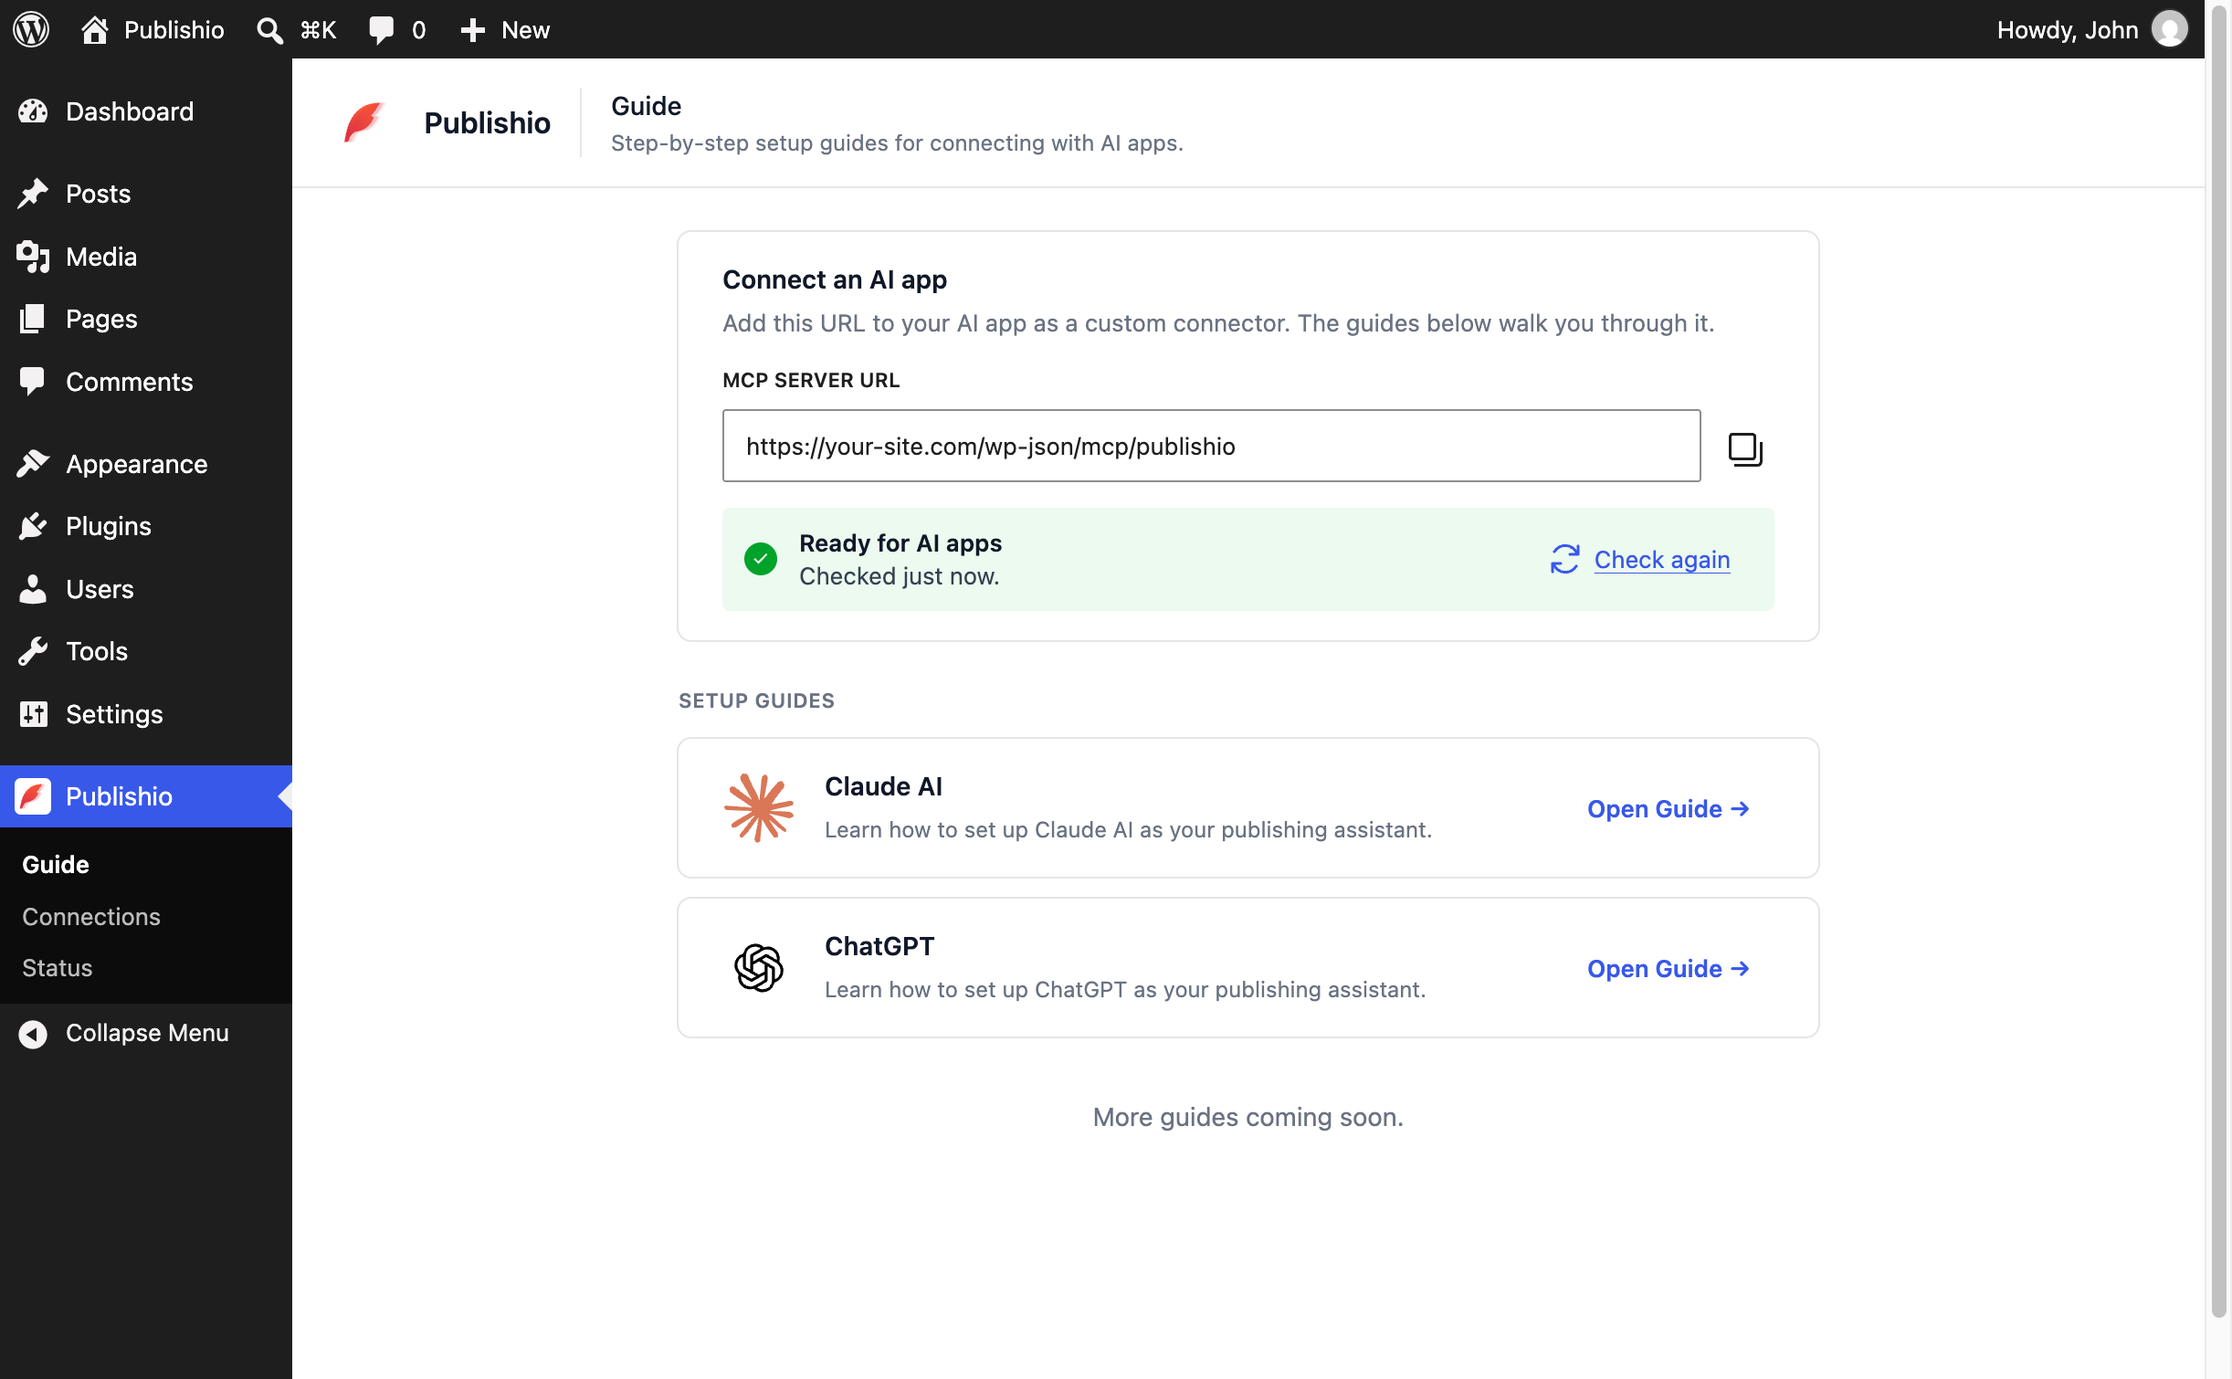
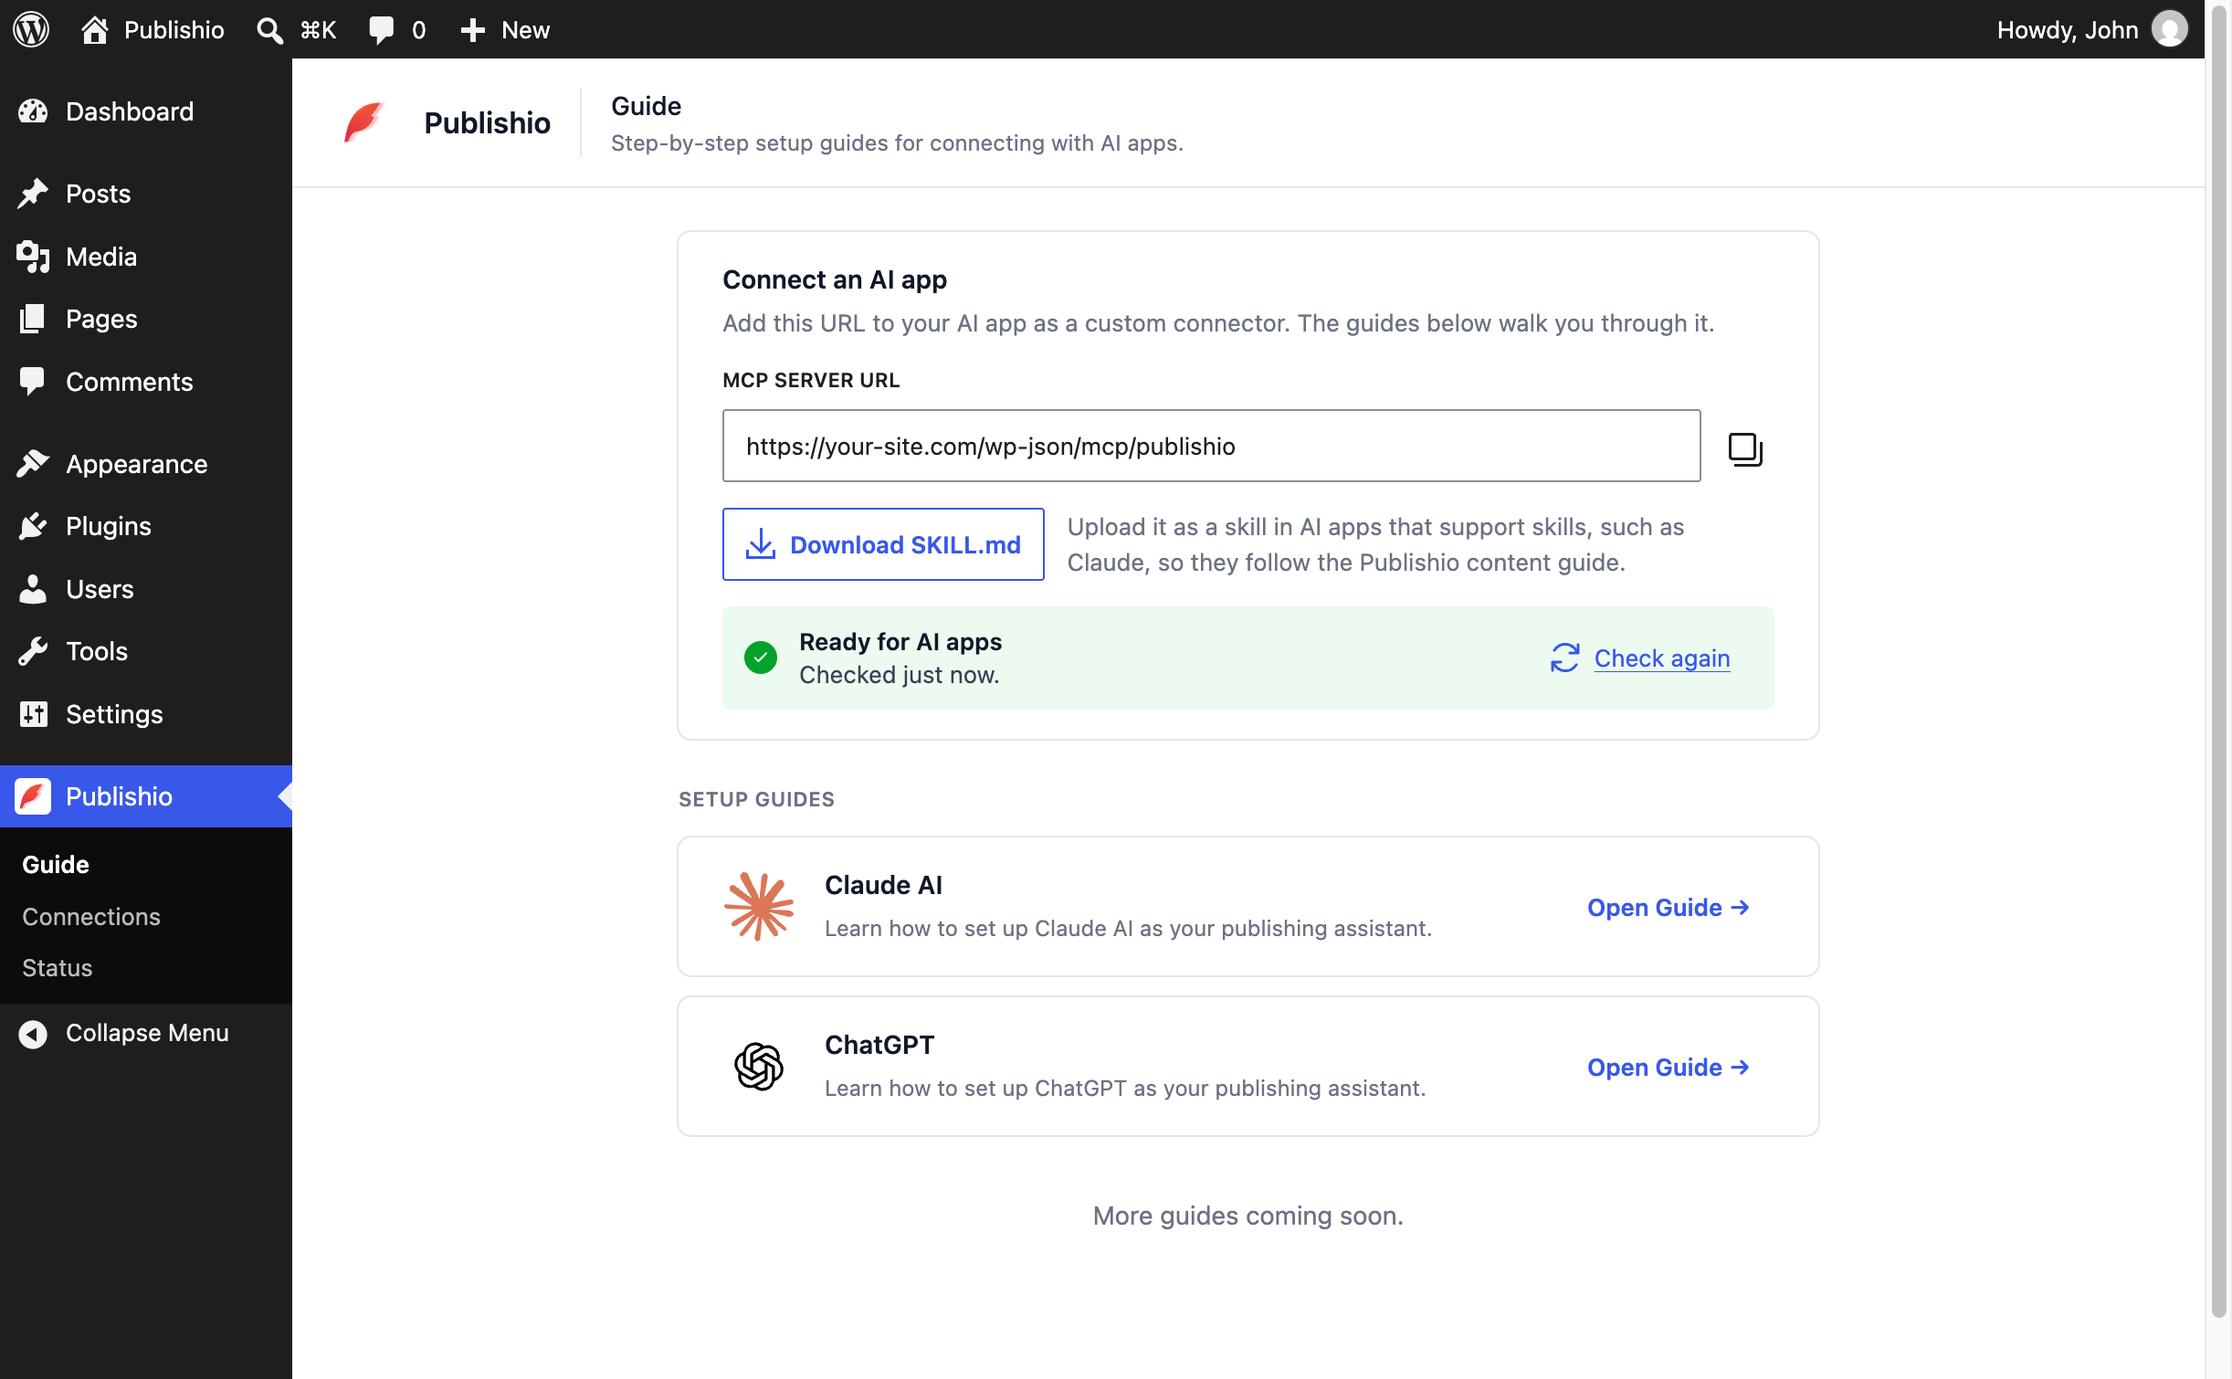
release(1.3.0): update version, changelog, screenshots and docs (#164)
* release(1.3.0): bump version, update changelog, screenshots and docs

* docs(readme): clarify what the block checks cover in the 1.3.0 changelog

diff --git a/publishio.php b/publishio.php
@@ -10,7 +10,7 @@
  * Plugin Name:       Publishio
  * Plugin URI:        https://github.com/rtCamp/publishio
  * Description:       Build WordPress pages and posts using your existing patterns directly from your favorite AI assistant.
- * Version:           1.2.0
+ * Version:           1.3.0
  * Author:            rtCamp
  * Author URI:        https://rtcamp.com
  * License:           GPL-2.0-or-later
@@ -41,7 +41,7 @@ function constants(): void {
 	/**
 	 * Version of the plugin.
 	 */
-	define( 'PUBLISHIO_VERSION', '1.2.0' );
+	define( 'PUBLISHIO_VERSION', '1.3.0' );
 
 	/**
 	 * Root path to the plugin directory.

diff --git a/docs/DEVELOPMENT.md b/docs/DEVELOPMENT.md
@@ -53,6 +53,7 @@ Code contributions, bug reports, and feature requests are welcome! The following
 ├── assets/      # Static assets that do not need compiling.
 ├── build/       # Compiled admin JS/CSS assets (generated by webpack.config.js).
 ├── build-apps/  # Compiled MCP app assets (generated by webpack.apps.config.js).
+├── bin/         # Scripts for E2E runs, the plugin zip and the version check.
 │
 │   # Project documentation.
 ├── docs/
@@ -64,8 +65,7 @@ Code contributions, bug reports, and feature requests are welcome! The following
 │   # Reusable framework library (shared across plugins).
 │   # In local projects, changes should be kept to a minimum so they can be kept in sync with the scaffold.
 ├── framework/
-│   ├── ...
-│   └── README.md # Documentation for the framework library.
+│   └── ...
 │
 │   # PHP source files (plugin-specific code).
 ├── inc/
@@ -84,9 +84,11 @@ Code contributions, bug reports, and feature requests are welcome! The following
 │
 ├── templates/ # Reusable PHP templates and partials.
 │
+├── skills/publishio/SKILL.md # The content guide: served to AI apps over MCP and downloadable from the Guide page.
+│
 │   # Scripts and styles that are compiled by webpack.
 ├── src/
-│   ├── admin/          # Admin UI (guide, connections, credentials).
+│   ├── admin/          # Admin UI (guide, connections, status).
 │   ├── apps/           # Standalone MCP app pages.
 │   ├── global.d.ts     # TypeScript global type declarations.
 │   └── tailwind.scss   # Global tailwind styles.
@@ -120,7 +122,6 @@ Code contributions, bug reports, and feature requests are welcome! The following
 │
 │   # Config files.
 ├── .browserslistrc               # Browserslist configuration.
-├── .distignore                   # Files to exclude from installation via Composer.
 ├── .editorconfig                 # Editor configuration.
 ├── .gitignore                    # Git ignore rules.
 ├── .gitattributes                # Git attributes.
@@ -133,6 +134,7 @@ Code contributions, bug reports, and feature requests are welcome! The following
 ├── .stylelint.config.js          # Stylelint configuration.
 ├── .stylelintignore              # Stylelint ignore patterns.
 ├── .wp-env.json                  # wp-env configuration.
+├── .wp-env.*.json                # wp-env sites for the PHP and E2E tests.
 ├── blueprint.json                # WordPress Playground blueprint configuration.
 ├── babel.config.js               # Babel configuration.
 ├── composer.json                 # PHP dependencies.
@@ -140,12 +142,13 @@ Code contributions, bug reports, and feature requests are welcome! The following
 ├── jest.config.js                # Jest configuration.
 ├── LICENSE.md                    # License file.
 ├── package.json                  # Node.js dependencies.
-├── playwright.config.ts          # Playwright configuration.
+├── playwright.config.js          # Playwright configuration.
 ├── phpstan.neon.dist             # PHPStan configuration.
 ├── phpunit.xml.dist              # PHPUnit configuration.
 ├── phpunit-yoast.xml.dist        # PHPUnit configuration for the tests that need Yoast SEO.
 ├── tsconfig.base.json            # TypeScript base configuration.
 ├── tsconfig.json                 # TypeScript configuration.
+├── webpack.apps.config.js        # Webpack configuration for the MCP apps.
 └── webpack.config.js             # Webpack configuration.
 ```
 
@@ -364,19 +367,15 @@ Pull requests automatically generate a Playground preview from the build artifac
 
 ### PHPUnit
 
-PHPUnit tests can be run using the following command:
+Start the test site with Xdebug's coverage mode, then run the tests:
 
 ```bash
+npm run wp-env:test -- start --xdebug=develop,coverage
+
 npm run test:php
 ```
 
-To generate a code coverage report, make sure to start the testing environment with coverage mode enabled:
-
-```bash
-npm run wp-env:test -- start -- --xdebug-mode=coverage
-
-npm run test:php
-```
+Without coverage mode, PHPUnit warns "No code coverage driver available" and exits 1 even when every test passes. Run one test class with `npm run test:php -- --filter <TestName>`.
 
 You should see the html coverage report in the `tests/_output/html` directory and the clover XML report in `tests/_output/php-coverage.xml`.
 
@@ -422,17 +421,13 @@ The setup file (`tests/js/setup.ts`) provides mocks for common WordPress package
 
 ### Playwright
 
-End-to-end tests using Playwright can be run with the following command:
+End-to-end tests run a group of tests against its own wp-env site, which starts and stops by itself:
 
 ```bash
-npm run test:e2e
+npm run test:e2e -- smoke test
 ```
 
-To run Playwright tests with UI mode enabled (which opens the browser and shows the test execution), use:
-
-```bash
-npm run test:e2e -- --ui
-```
+To watch the browser, add `--headed`. See the [E2E README](../tests/e2e/README.md) for the setup, every test group and how CI runs them.
 
 ### GitHub Workflows
 
@@ -477,9 +472,10 @@ Releases are **tag-driven and manual** — you control versions and the changelo
 
 To ship a version:
 
-1. Bump the version in all places:
+1. Bump the version in all places, then run `npm run version:check`:
    - [`publishio.php`](../publishio.php) — `Version:` header and the `PUBLISHIO_VERSION` constant.
    - [`readme.txt`](../readme.txt) — `Stable tag:`.
+   - [`composer.json`](../composer.json) — `version`. Then run `composer update --lock` to refresh the hash in `composer.lock`.
 2. Update the `== Changelog ==` and `== Upgrade Notice ==` sections in [`readme.txt`](../readme.txt).
 3. Commit and merge to `main`.
 4. Tag and push using a bare `X.Y.Z` version (no `v` prefix), e.g.:
@@ -491,7 +487,7 @@ To ship a version:
 
 Pushing a bare `X.Y.Z` tag runs [`.github/workflows/release.yml`](../.github/workflows/release.yml): it builds the plugin, creates the GitHub Release with the zip attached, and deploys to WordPress.org via SVN. Notes:
 
-- The version comes from the tag name only — keep `publishio.php` and `readme.txt` in sync yourself (step 1).
+- The version comes from the tag name only. CI fails if `publishio.php`, `readme.txt` and `composer.json` disagree (step 1).
 - The tag must point to a commit on `main`, or `validate` fails the release.
 - `v`-prefixed (`v0.3.0`) and pre-release (`0.3.0-beta`) tags do not trigger the workflow.
 - WordPress.org listing assets (banner, icon, screenshots) deploy to SVN `/assets` from [`.wordpress-org`](../.wordpress-org), not the plugin zip.

diff --git a/.github/workflows/README.md b/.github/workflows/README.md
@@ -6,26 +6,27 @@ Workflows are defined to be reusable and modular.
 
 Main CI pipeline used to validate code. Based on file changes it calls the following reusable workflows:
 
-| Reusable Workflow                                                                                                                                                                      | What                                      |
-| -------------------------------------------------------------------------------------------------------------------------------------------------------------------------------------- | ----------------------------------------- |
-| [`reusable-phpcs.yml`](reusable-phpcs.yml) <br /> [`reusable-phpcs-public.yml`](reusable-phpcs-public.yml)                                                                             | PHPCS linting                             |
-| [`reusable-phpstan.yml`](reusable-phpstan.yml) <br /> [`reusable-phpstan-public.yml`](reusable-phpstan-public.yml)                                                                     | PHPStan static analysis                   |
-| [`reusable-phpunit.yml`](reusable-phpunit.yml) <br /> [`reusable-phpunit-public.yml`](reusable-phpunit-public.yml)                                                                     | PHPUnit tests                             |
-| [`reusable-lint-css-js.yml`](reusable-lint-css-js.yml) <br /> [`reusable-lint-css-js-public.yml`](reusable-lint-css-js-public.yml)                                                     | ESLint, Stylelint, Prettier, tsc linting  |
-| [`reusable-jest.yml`](reusable-jest.yml) <br /> [`reusable-jest-public.yml`](reusable-jest-public.yml)                                                                                 | Jest tests                                |
-| [`reusable-e2e.yml`](reusable-e2e.yml) <br /> [`reusable-e2e-public.yml`](reusable-e2e-public.yml)                                                                                     | Playwright end-to-end tests               |
-| [`reusable-build.yml`](reusable-build.yml) <br /> [`reusable-build-public.yml`](reusable-build-public.yml)                                                                             | Creates a build zip (used by playground)  |
-| [`reusable-wp-playground-pr-preview.yml`](reusable-wp-playground-pr-preview.yml) <br /> [`reusable-wp-playground-pr-preview-public.yml`](reusable-wp-playground-pr-preview-public.yml) | PR preview environment with wp-playground |
+| Reusable Workflow                                                                | What                                      |
+| -------------------------------------------------------------------------------- | ----------------------------------------- |
+| [`reusable-phpcs.yml`](reusable-phpcs.yml)                                       | PHPCS linting                             |
+| [`reusable-phpstan.yml`](reusable-phpstan.yml)                                   | PHPStan static analysis                   |
+| [`reusable-phpunit.yml`](reusable-phpunit.yml)                                   | PHPUnit tests                             |
+| [`reusable-lint-css-js.yml`](reusable-lint-css-js.yml)                           | ESLint, Stylelint, Prettier, tsc linting  |
+| [`reusable-jest.yml`](reusable-jest.yml)                                         | Jest tests                                |
+| [`reusable-build.yml`](reusable-build.yml)                                       | Creates a build zip (used by playground)  |
+| [`reusable-wp-playground-pr-preview.yml`](reusable-wp-playground-pr-preview.yml) | PR preview environment with wp-playground |
 
-Reusable workflows have a `*-public.yml` variant which is used for public GitHub runners and should be used for public repositories. The non-public `*.yml` are meant for private repositories using private runners.
+### E2E: [`e2e.yml`](e2e.yml), [`e2e-scheduled.yml`](e2e-scheduled.yml), [`wp-release-watch.yml`](wp-release-watch.yml)
 
-Ensure that `ci.yml` points to the correct workflows you need, and delete the others.
-
-If you are using `ci.yml` in a private repository with rtCamp runners and later steps in the same job need authenticated Git operations, set `persist-credentials: true` in the `actions/checkout` step of `ci.yml`.
+Run the Playwright end-to-end tests through [`reusable-e2e-public.yml`](reusable-e2e-public.yml): on pull requests and pushes to `main`, nightly and weekly, and when WordPress ships a new release. See [the E2E README](../../tests/e2e/README.md#in-ci-github-actions) for what runs when.
 
 ### [`copilot-setup-steps.yml`](copilot-setup-steps.yml)
 
 Sets up dev environment for GitHub Copilot coding agent.
+
+### [`copilot-code-review.yml`](copilot-code-review.yml)
+
+Setup steps for Copilot code review on pull requests.
 
 ### [`pr-title.yml`](pr-title.yml)
 
@@ -42,11 +43,11 @@ Triggers on bare `X.Y.Z` tag pushes. Builds the plugin via `reusable-build.yml`,
 
 ### Secrets
 
-| Secret          | Required By                                                    | Notes                                                |
-| --------------- | -------------------------------------------------------------- | ---------------------------------------------------- |
-| `CODECOV_TOKEN` | `reusable-phpunit-public.yml` <br />`reusable-jest-public.yml` | Optional - coverage uploads fail silently without it |
-| `SVN_USERNAME`  | `release.yml`                                                  | WordPress.org committer username.                    |
-| `SVN_PASSWORD`  | `release.yml`                                                  | WordPress.org committer password.                    |
+| Secret          | Required By                                      | Notes                                                |
+| --------------- | ------------------------------------------------ | ---------------------------------------------------- |
+| `CODECOV_TOKEN` | `reusable-phpunit.yml` <br />`reusable-jest.yml` | Optional - coverage uploads fail silently without it |
+| `SVN_USERNAME`  | `release.yml`                                    | WordPress.org committer username.                    |
+| `SVN_PASSWORD`  | `release.yml`                                    | WordPress.org committer password.                    |
 
 ### PR Previews
 

diff --git a/src/admin/README.md b/src/admin/README.md
@@ -4,20 +4,21 @@ React/TypeScript WordPress admin panel.
 
 ## Structure
 
-| Dir            | Purpose                                                           |
-| -------------- | ----------------------------------------------------------------- |
-| `guide/`       | Setup guides for AI providers (Claude, OpenAI)                    |
-| `connections/` | List and manage AI provider connections                           |
-| `credentials/` | Create, edit, delete API credentials                              |
-| `shared/`      | Reusable components (AdminHeader, CopyField, table fields, utils) |
-| `styles/`      | Admin menu icon SCSS                                              |
+| Dir            | Purpose                                                                                 |
+| -------------- | --------------------------------------------------------------------------------------- |
+| `guide/`       | MCP server URL, SKILL.md download, readiness check and setup guides (Claude, ChatGPT)   |
+| `connections/` | List and remove AI app connections                                                      |
+| `status/`      | Checks whether AI apps can reach the site, with a copyable report                       |
+| `shared/`      | Reusable components (AdminHeader, CopyField, notices, table fields, site checks, utils) |
+| `styles/`      | Admin menu icon SCSS                                                                    |
 
 ## Entry points
 
-Three independent screens, each an enqueued asset:
+Three independent screens and the menu icon, each an enqueued asset:
 
 - `guide/index.tsx` → `admin` entry
 - `connections/index.tsx` → `admin-connections` entry
-- `credentials/index.tsx` → `admin-credentials` entry
+- `status/index.tsx` → `admin-status` entry
+- `styles/menu-icon.scss` → `admin-menu-icon` entry
 
 Built by `npm run build:admin` (or `npm run start:admin` for dev).
